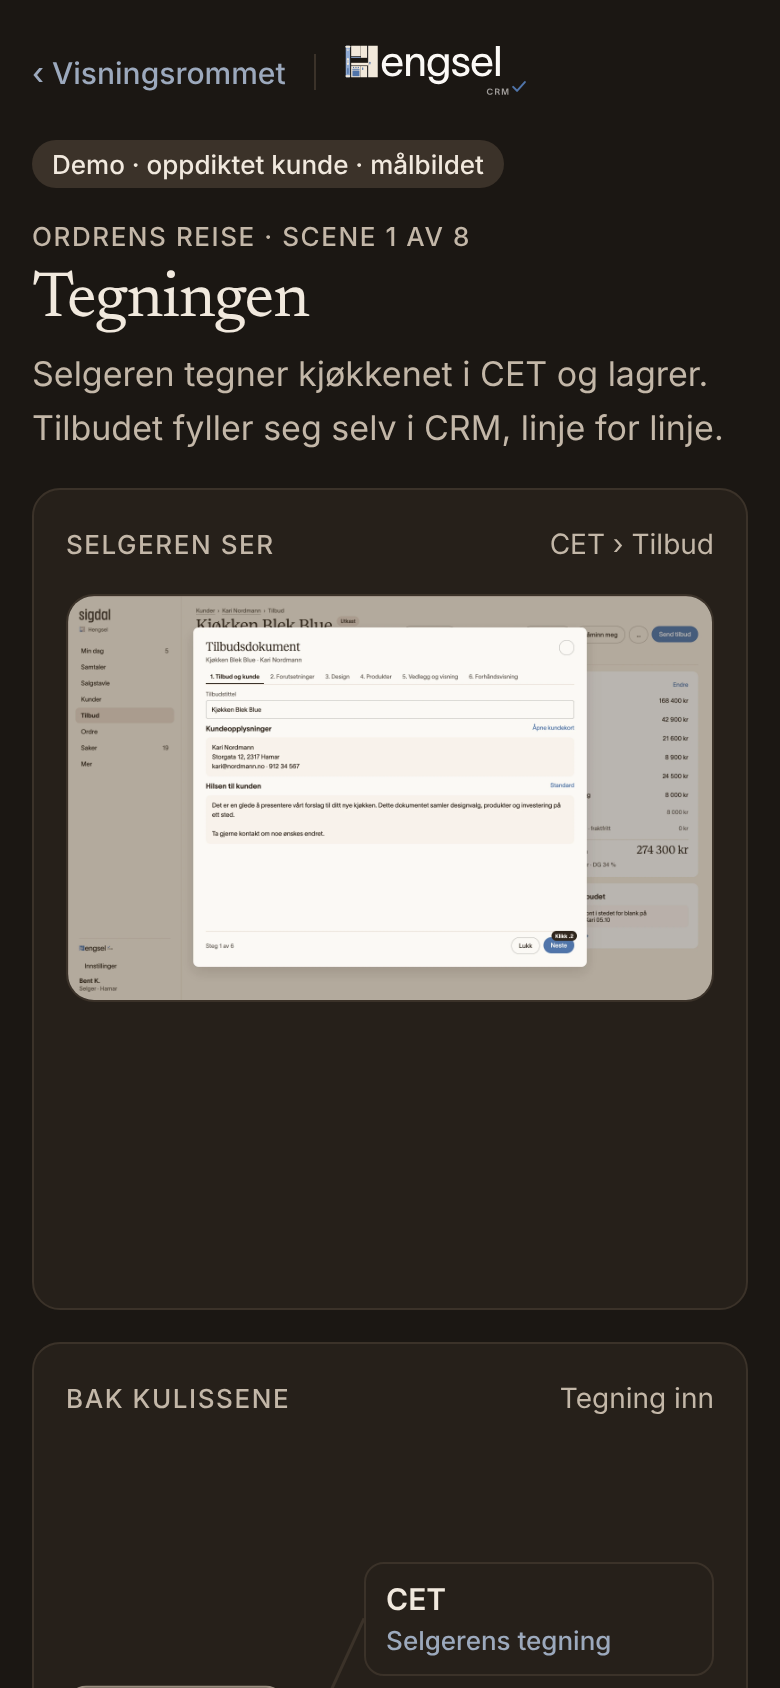
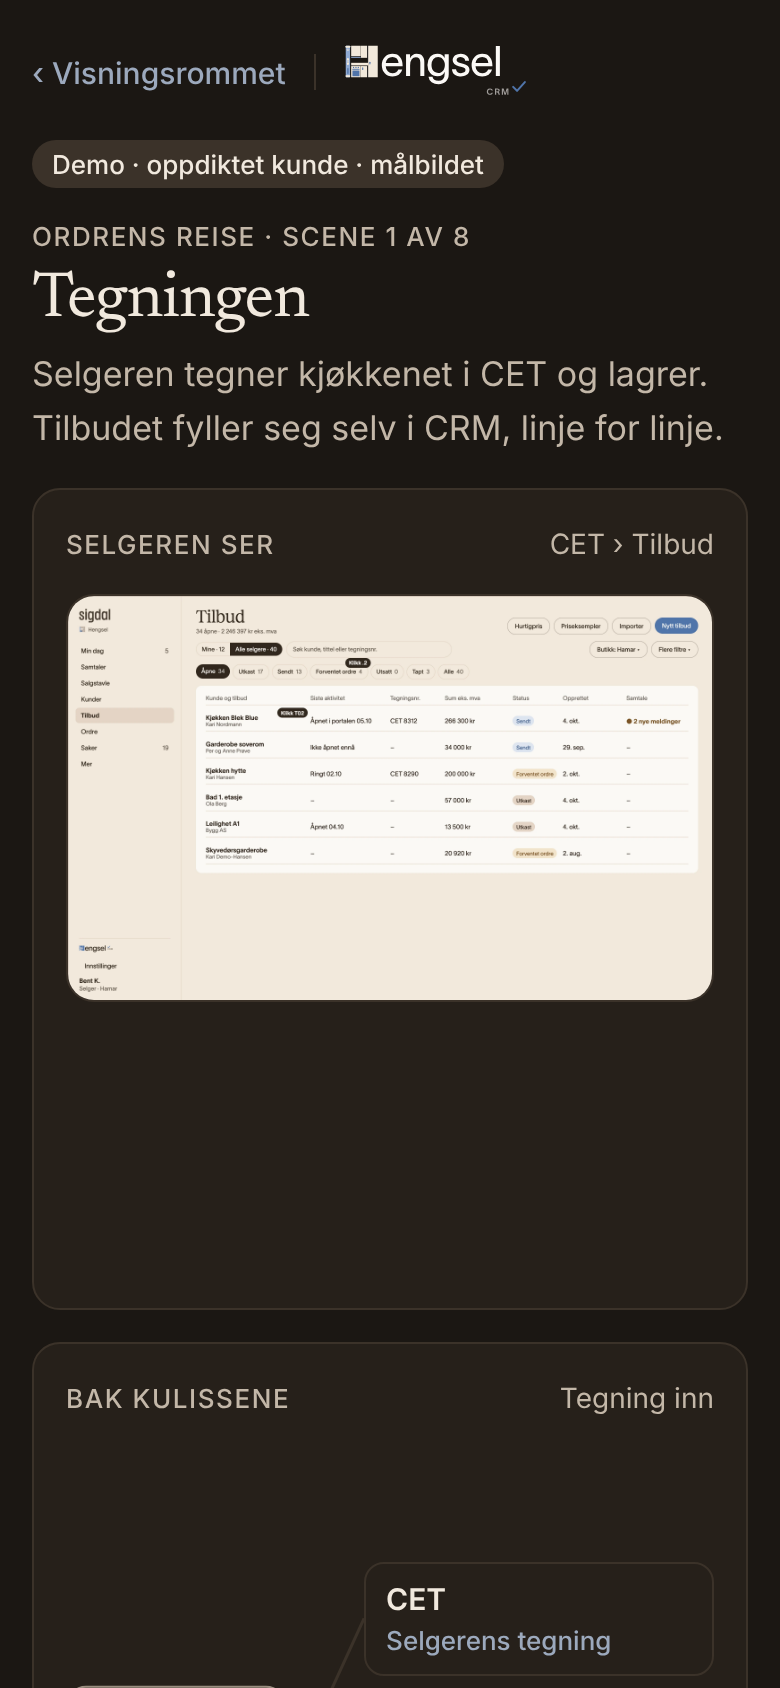
vis: rettelser før fletting (CRM-skjerm, montasjeplan, Ordrens reise)
- Skjermbildene beskjæres aldri i høyden: bildet får egen høyde og skjermen ruller (sidemenyen i Prøv CRM).
- Montasjeplan: fire ukekolonner à 150 px, tavla ruller vannrett (min-width:0 i rutenettet).
- Ordrens reise: scene 1 viser crm-tilbud, scene 2 crm-tilbud-kunde. README-kartet oppdatert.
- Romkortene for Montøren (ute-i-dag) og Kundens reise (portal-tlf-nytt-kjokken) var alt riktige.

Claude-Session: https://claude.ai/code/session_01XUX8fkzkTEqWReZM1iEFk5

Changed region(s): [[0.0615, 0.3389, 0.9231, 0.6161]]

diff --git a/sites/vis/src/reise/index.html b/sites/vis/src/reise/index.html
@@ -127,7 +127,7 @@
   <main class="stage" id="stage">
     <section class="card pane" aria-label="Det selgeren ser">
       <div class="pane-h"><h2 class="eyebrow">Selgeren ser</h2><span id="where"></span></div>
-      <div class="enhet" data-enhet="pc"><div class="pc-ramme" id="pc" data-bilder="crm-tilbud-kunde,crm-ordre-kontrollmal" data-ingen-nav data-alt="Hengsel CRM på PC"><div class="skjermkant"><div class="skjerm"></div></div><span class="stang" aria-hidden="true"></span><span class="fot" aria-hidden="true"></span></div></div>
+      <div class="enhet" data-enhet="pc"><div class="pc-ramme" id="pc" data-bilder="crm-tilbud,crm-tilbud-kunde,crm-ordre-kontrollmal" data-ingen-nav data-alt="Hengsel CRM på PC"><div class="skjermkant"><div class="skjerm"></div></div><span class="stang" aria-hidden="true"></span><span class="fot" aria-hidden="true"></span></div></div>
       <div class="enhet" data-enhet="ipad" hidden><div class="ipad-ramme" id="ipad" data-bilder="crm-ipad-belastninger" data-alt="Hengsel CRM på iPad: belastninger"><div class="skjerm"></div></div></div>
       <div class="enhet" data-enhet="tlf" hidden><div class="tlf" id="tlf" data-bilder="portal-tlf-levering,portal-tlf-montering" data-ingen-nav data-alt="Min side på mobil"><div class="skjerm"></div><span class="hjem" aria-hidden="true"></span></div></div>
       <div class="order" hidden>

diff --git a/sites/vis/src/reise/side.js b/sites/vis/src/reise/side.js
@@ -3,9 +3,9 @@
   var reduce=window.matchMedia&&window.matchMedia('(prefers-reduced-motion: reduce)').matches;
   var rowsEl=$('rows'),flow=$('flow'),svg=$('lines'),crm=$('crm');
   var cur=1,playing=false,timers=[],anims=[],nodes=[],autoT=null;
-  /* Skjermbilde per scene (CRM_v4): tegning/tilbud/signering → tilbud og kunde på PC, bestilling/bekreftelse/endring →
+  /* Skjermbilde per scene (CRM_v4): tegning → tilbudslista, tilbud/signering → tilbud og kunde på PC, bestilling/bekreftelse/endring →
      ordre og kontrollmål på PC, levering og montasje → kundens Min side på telefon, faktura → belastninger på iPad */
-  var V=Skjermbilder.alle(),BILDE=[['pc',0],['pc',0],['pc',0],['pc',1],['pc',1],['pc',1],['tlf',1],['ipad',0]];
+  var V=Skjermbilder.alle(),BILDE=[['pc',0],['pc',1],['pc',1],['pc',2],['pc',2],['pc',2],['tlf',1],['ipad',0]];
   function bilde(n){var b=BILDE[n-1];[].forEach.call(document.querySelectorAll('.pane [data-enhet]'),function(w){w.hidden=w.dataset.enhet!==b[0]});V[b[0]].vis(b[1])}
 
   var HEAD_LI={t:'Ordre 10087',s:'Hanne Liksomlien · Lillehammer · montasje uke 46'};

diff --git a/sites/vis/src/montasjeplan/index.html b/sites/vis/src/montasjeplan/index.html
@@ -36,8 +36,8 @@ h3.eyebrow{margin:0;display:flex;align-items:center;gap:8px;flex-wrap:wrap}
 /* Tavla */
 .stage{display:grid;grid-template-columns:minmax(0,1fr) 300px;gap:16px;align-items:start}
 .stage>.card{padding:14px;min-width:0}
-.board{overflow-x:auto;-webkit-overflow-scrolling:touch;padding-bottom:4px}
-.grid{display:grid;grid-template-columns:minmax(180px,1fr) repeat(4,minmax(180px,1fr));gap:8px;min-width:932px}
+.board{overflow-x:auto;-webkit-overflow-scrolling:touch;padding-bottom:4px;min-width:0}
+.grid{display:grid;grid-template-columns:minmax(180px,1fr) repeat(4,minmax(150px,1fr));gap:8px;min-width:812px}
 .hd{font:600 13px var(--sans);color:var(--muted);padding:2px 4px;display:flex;justify-content:space-between;align-items:baseline}
 .hd b{font:400 1.45rem/1 var(--serif);color:var(--fg);letter-spacing:-.015em;font-variant-numeric:tabular-nums}
 .hd.w{justify-content:flex-start;gap:6px}

diff --git a/sites/vis/src/assets/enhet.css b/sites/vis/src/assets/enhet.css
@@ -38,7 +38,7 @@
    object-fit cover fra toppen. Studio Display-flaten er 1180 × 740; høyere bilder (kundeportalens PC-sider) kan
    rulles i skjermen. Telefon- og iPad-bildene har egen statuslinje; ute-*-bildene får en fra rammen (data-sb). */
 .pc-ramme>.skjermkant>.skjerm{aspect-ratio:1180/740;overflow:auto;background:var(--bg);display:block;scrollbar-width:thin}
-.skjerm>img.sk{display:block;width:100%;height:auto;min-height:100%;object-fit:cover;object-position:top}
+.skjerm>img.sk{display:block;width:100%;height:auto;object-fit:cover;object-position:top} /* aldri beskåret i høyden: skjermen ruller */
 .tlf>.skjerm{display:flex;flex-direction:column}
 .tlf>.skjerm>img.sk{flex:1;min-height:0;height:100%}
 .tlf .sb .batteri{width:24px;height:11px;border:1.5px solid currentColor;border-radius:3px;box-sizing:border-box}

diff --git a/sites/vis/README.md b/sites/vis/README.md
@@ -14,7 +14,7 @@ Alle skjermbilder av løsningen på vis.hengsel.no kommer fra **designfilene i C
 | Tegningen | `crm-mal-skisser` (steg 4) | `ute-ipad-bildeverktoy` (steg 3; statuslinje fra rammen) | `ute-laser` (steg 1, 2, 5) |
 | Kundens Min side | PC-bryter: `portal-mitt-kjokken` → `portal-oppgraderinger` → `portal-status` → `portal-nytt-kjokken` | – | Mobil-bryter: `portal-tlf-nytt-kjokken` → `portal-tlf-levering` → `portal-tlf-montering` → `portal-tlf-mine-kjop`; steg n viser bilde n i begge |
 | Kundens reise | – | – | steg 1–2 `portal-tlf-nytt-kjokken`, 3–5 `portal-tlf-levering`, 6 `portal-tlf-montering`, 7–8 `portal-tlf-mine-kjop`; varselet glir inn oppå |
-| Ordrens reise («Selgeren ser») | scene 1–3 `crm-tilbud-kunde`, 4–6 `crm-ordre-kontrollmal` | scene 8 `crm-ipad-belastninger` | scene 7 `portal-tlf-montering` |
+| Ordrens reise («Selgeren ser») | scene 1 `crm-tilbud`, 2–3 `crm-tilbud-kunde`, 4–6 `crm-ordre-kontrollmal` | scene 8 `crm-ipad-belastninger` | scene 7 `portal-tlf-montering` |
 | Romkort på forsiden | første bilde i rommets liste, 16:10 øverst til venstre; telefonbilder (Kundens reise, Montørappen, Tegningen) 58 % brede, toppjustert | | |
 
 - `ute-*`-bildene (iPhone 780 × 1512 og `ute-ipad-bildeverktoy`) er de samme filene som hengsel.no bruker (`sites/hengsel/public/img`, fra fil 56), uten statuslinje; rammen legger på «07.42»/«09.41». De andre bildene har egen statuslinje.
